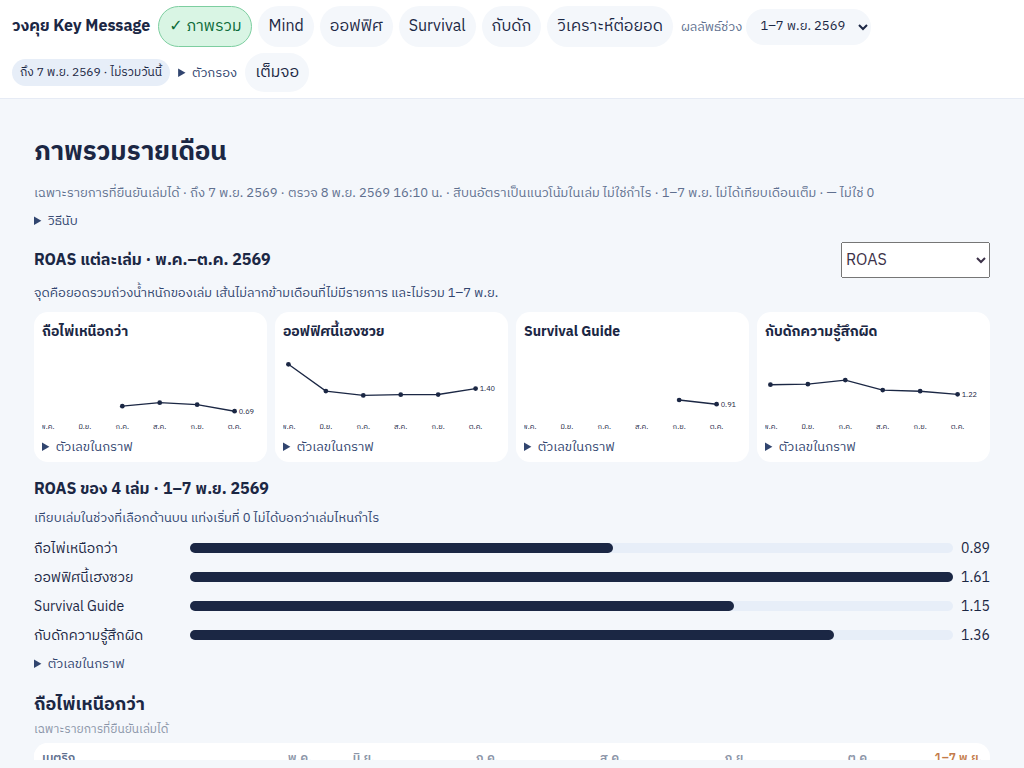
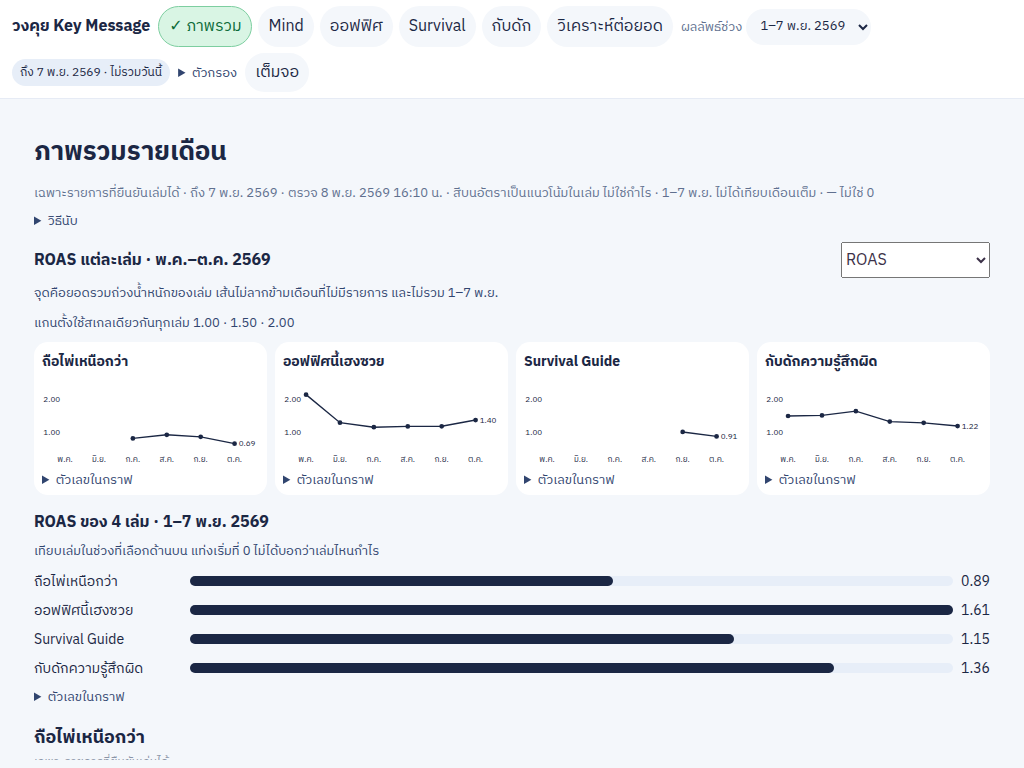
fix: label scatter and trend axes with numeric ticks
Spend uses baht ticks, ROAS uses numeric ticks, and the book baseline value sits on the dashed line.

diff --git a/public/chart-view.js b/public/chart-view.js
@@ -1,12 +1,14 @@
 import {
   CHART_METRICS,
   formatChartValue,
+  formatSpendTick,
   periodSeries,
   scatterLayout,
   scatterPoints,
+  trendScale,
   trendSegments,
   trendSeries,
-} from "/shared/chart-data.js?v=20261108t107";
+} from "/shared/chart-data.js?v=20261108t108";
 
 function el(tag, className, text) {
   const node = document.createElement(tag);
@@ -31,19 +33,13 @@ export function renderTrendChart(parent, opts) {
   section.append(el("p", "chart-note", "จุดคือยอดรวมถ่วงน้ำหนักของเล่ม เส้นไม่ลากข้ามเดือนที่ไม่มีรายการ และไม่รวม 1–7 พ.ย."));
   const grid = el("div", "trend-grid");
   const all = opts.books.map(([id]) => trendSeries(opts.deck.bookTotals, id, metric.key));
-  const values = all.flat().map((point) => point.value).filter((value) => value != null);
-  let min = metric.zero ? 0 : Math.min(...values);
-  let max = Math.max(...values);
-  if (!Number.isFinite(min)) min = 0;
-  if (!Number.isFinite(max)) max = 1;
-  if (min === max) max = min + 1;
-  else if (!metric.zero) min -= (max - min) * 0.12;
-  max += (max - min) * 0.16;
+  const scale = trendScale(all.flat().map((point) => point.value), metric.zero);
+  section.append(el("p", "chart-note", `แกนตั้งใช้สเกลเดียวกันทุกเล่ม ${scale.ticks.map((value) => formatChartValue(metric.key, value)).join(" · ")}`));
   for (const [id, name] of opts.books) {
     const series = trendSeries(opts.deck.bookTotals, id, metric.key);
     const panel = el("article", "chart-panel");
     panel.append(el("h4", "", name));
-    panel.append(trendSvg(series, min, max, metric.key));
+    panel.append(trendSvg(series, scale, metric.key));
     panel.append(dataTable(series.map((point) => [point.short, formatChartValue(metric.key, point.value)])));
     grid.append(panel);
   }
@@ -82,7 +78,7 @@ export function renderPeriodChart(parent, opts) {
 
 export function renderScatter(parent, ads, baseline, opts) {
   const points = scatterPoints(ads);
-  const layout = scatterLayout(points, baseline, 640, 180);
+  const layout = scatterLayout(points, baseline, 640, 200);
   const section = el("section", "chart-block scatter-block");
   section.append(el("h3", "", "Spend กับ ROAS ของแอดในช่วงนี้"));
   section.append(el("p", "chart-note", `เส้นประคือ ROAS ยอดเล่มทั้งช่วง ${baseline == null ? "—" : baseline.toFixed(2)} ไม่ได้คำนวณจากแถวที่กรอง และสูงกว่าเส้นไม่แปลว่ากำไร`));
@@ -92,12 +88,23 @@ export function renderScatter(parent, ads, baseline, opts) {
   svg.append(svgEl("line", { x1: layout.padL, y1: layout.padT, x2: layout.padL, y2: layout.height - layout.padB, class: "chart-axis" }));
   if (layout.baseY != null) {
     svg.append(svgEl("line", { x1: layout.padL, y1: layout.baseY, x2: layout.width - layout.padR, y2: layout.baseY, class: "chart-base" }));
+    const baseLabel = svgEl("text", { x: layout.width - layout.padR + 4, y: layout.baseY + 4, class: "chart-base-label" });
+    baseLabel.textContent = baseline.toFixed(2);
+    svg.append(baseLabel);
   }
-  const xLabel = svgEl("text", { x: layout.width / 2, y: layout.height - 8, class: "chart-axis-label", "text-anchor": "middle" });
+  for (const tick of layout.xTicks) {
+    const label = svgEl("text", { x: tick.x, y: layout.height - layout.padB + 14, class: "chart-tick x-tick", "text-anchor": "middle" });
+    label.textContent = tick.label;
+    svg.append(label);
+  }
+  for (const tick of layout.yTicks) {
+    const label = svgEl("text", { x: layout.padL - 6, y: tick.y + 4, class: "chart-tick y-tick", "text-anchor": "end" });
+    label.textContent = tick.label;
+    svg.append(label);
+  }
+  const xLabel = svgEl("text", { x: layout.width / 2, y: layout.height - 4, class: "chart-axis-label", "text-anchor": "middle" });
   xLabel.textContent = "Spend";
-  const yLabel = svgEl("text", { x: 14, y: 14, class: "chart-axis-label" });
-  yLabel.textContent = "ROAS";
-  svg.append(xLabel, yLabel);
+  svg.append(xLabel);
   for (const dot of layout.dots) {
     const button = el("button", "scatter-hit");
     button.type = "button";
@@ -140,18 +147,26 @@ function metricSelect(opts) {
   return select;
 }
 
-function trendSvg(series, min, max, key) {
+function trendSvg(series, scale, key) {
   const width = 320;
-  const height = 128;
-  const padL = 8;
+  const height = 132;
+  const padL = 34;
   const padR = 36;
   const padT = 16;
   const padB = 22;
+  const min = scale.min;
+  const max = scale.max;
   const innerW = width - padL - padR;
   const innerH = height - padT - padB;
   const xOf = (index) => padL + (series.length === 1 ? innerW / 2 : (index / (series.length - 1)) * innerW);
   const yOf = (value) => padT + (1 - (value - min) / (max - min)) * innerH;
   const svg = svgEl("svg", { viewBox: `0 0 ${width} ${height}`, class: "chart trend-chart" });
+  for (const tick of [scale.ticks[0], scale.ticks[scale.ticks.length - 1]]) {
+    if (tick == null || tick < min || tick > max) continue;
+    const label = svgEl("text", { x: 2, y: yOf(tick) + 3, class: "chart-tick trend-y" });
+    label.textContent = key === "roas" ? formatChartValue(key, tick) : formatSpendTick(tick);
+    svg.append(label);
+  }
   for (const segment of trendSegments(series)) {
     if (segment.length < 2) continue;
     const d = segment.map((point) => {

diff --git a/shared/chart-data.js b/shared/chart-data.js
@@ -80,7 +80,30 @@ export function scatterPoints(ads) {
   });
 }
 
-export function scatterLayout(points, baseline, width = 640, height = 220) {
+export function niceStep(span, target = 4) {
+  const rough = Math.abs(span) / target || 1;
+  const pow = 10 ** Math.floor(Math.log10(rough));
+  return [1, 2, 2.5, 5, 10].map((multiplier) => multiplier * pow).find((step) => span / step <= target + 1) || rough;
+}
+
+export function formatSpendTick(value) {
+  if (value === 0) return "฿0";
+  if (value % 1000 === 0) return `฿${value / 1000}k`;
+  if (value >= 1000) return `฿${(value / 1000).toFixed(1)}k`;
+  return `฿${Math.round(value)}`;
+}
+
+export function axisTicks(min, max, target = 4) {
+  const step = niceStep(max - min, target);
+  const start = Math.ceil((min - step * 1e-9) / step) * step;
+  const ticks = [];
+  for (let value = start; value <= max + step * 1e-6; value += step) {
+    ticks.push(Number(value.toFixed(6)));
+  }
+  return ticks;
+}
+
+export function scatterLayout(points, baseline, width = 640, height = 200) {
   const plot = points.filter((point) => point.plot);
   const spends = plot.map((point) => point.spend);
   const roases = plot.map((point) => point.roas).concat(baseline == null ? [] : [baseline]);
@@ -95,14 +118,16 @@ export function scatterLayout(points, baseline, width = 640, height = 220) {
     yMin -= pad;
     yMax += pad;
   }
-  const padL = 44;
-  const padR = 16;
-  const padT = 18;
-  const padB = 32;
+  const padL = 46;
+  const padR = 42;
+  const padT = 16;
+  const padB = 36;
   const innerW = Math.max(1, width - padL - padR);
   const innerH = Math.max(1, height - padT - padB);
   const xOf = (spend) => padL + (spend / xMax) * innerW;
   const yOf = (roas) => padT + (1 - (roas - yMin) / (yMax - yMin)) * innerH;
+  const xTicks = axisTicks(0, xMax, 4).filter((value) => value >= 0 && value <= xMax + 1e-6);
+  const yTicks = axisTicks(yMin, yMax, 4);
   return {
     width,
     height,
@@ -113,7 +138,21 @@ export function scatterLayout(points, baseline, width = 640, height = 220) {
     xMax,
     yMin,
     yMax,
+    baseline,
     baseY: baseline == null ? null : yOf(baseline),
+    xTicks: xTicks.map((value) => ({ value, label: formatSpendTick(value), x: xOf(value) })),
+    yTicks: yTicks.map((value) => ({ value, label: Number(value.toFixed(2)).toString(), y: yOf(value) })),
     dots: plot.map((point) => ({ ...point, x: xOf(point.spend), y: yOf(point.roas) })),
   };
+}
+
+export function trendScale(values, zero) {
+  const finite = values.filter((value) => value != null && Number.isFinite(value));
+  let min = finite.length ? Math.min(...finite) : 0;
+  let max = finite.length ? Math.max(...finite) : 1;
+  if (zero) min = Math.min(0, min);
+  if (min === max) max = min + 1;
+  else if (!zero) min -= (max - min) * 0.12;
+  max += (max - min) * 0.16;
+  return { min, max, ticks: axisTicks(min, max, 3) };
 }

diff --git a/public/web.js b/public/web.js
@@ -1,13 +1,13 @@
-import { analysisItemId } from "/shared/analysis.js?v=20261108t107";
-import { rates } from "/shared/metrics.js?v=20261108t107";
-import { comparisonRows } from "/shared/comparison.js?v=20261108t107";
-import { FROZEN_PERFORMANCE } from "/shared/cutoff.js?v=20261108t107";
-import { changePct, metricTone, sameLengthBase, TONE_LABEL } from "/shared/conditional.js?v=20261108t107";
-import { contentBadge, STATUS_CHECKED_LABEL } from "/shared/status-labels.js?v=20261108t107";
-import { TABLE_HEAD } from "/shared/labels.js?v=20261108t107";
-import { OVERVIEW_METRICS, OVERVIEW_MONTHS, metricCell } from "/shared/history.js?v=20261108t107";
-import { filterAds, sortAds } from "/shared/ad-query.js?v=20261108t107";
-import { renderPeriodChart, renderScatter, renderTrendChart } from "/chart-view.js?v=20261108t107";
+import { analysisItemId } from "/shared/analysis.js?v=20261108t108";
+import { rates } from "/shared/metrics.js?v=20261108t108";
+import { comparisonRows } from "/shared/comparison.js?v=20261108t108";
+import { FROZEN_PERFORMANCE } from "/shared/cutoff.js?v=20261108t108";
+import { changePct, metricTone, sameLengthBase, TONE_LABEL } from "/shared/conditional.js?v=20261108t108";
+import { contentBadge, STATUS_CHECKED_LABEL } from "/shared/status-labels.js?v=20261108t108";
+import { TABLE_HEAD } from "/shared/labels.js?v=20261108t108";
+import { OVERVIEW_METRICS, OVERVIEW_MONTHS, metricCell } from "/shared/history.js?v=20261108t108";
+import { filterAds, sortAds } from "/shared/ad-query.js?v=20261108t108";
+import { renderPeriodChart, renderScatter, renderTrendChart } from "/chart-view.js?v=20261108t108";
 
 const BOOKS = [
   ["Mind", "ถือไพ่เหนือกว่า"],

diff --git a/test/chart-data.test.js b/test/chart-data.test.js
@@ -8,6 +8,7 @@ import {
   bookMetric,
   formatChartValue,
   periodSeries,
+  formatSpendTick,
   scatterLayout,
   scatterPoints,
   trendSegments,
@@ -65,6 +66,26 @@ test("the selected-period chart uses that period only, and a scatter keeps the u
   const zero = scatterPoints([{ adId: "z", adName: "z", spend: 5, revenue: 0, impressions: 10, chats: 1, purchases: 0 }]);
   assert.equal(zero[0].roas, 0);
   assert.equal(zero[0].plot, true);
+  assert.ok(layout.xTicks.some((tick) => tick.label === "฿0"));
+  assert.ok(layout.xTicks.some((tick) => /฿\d+k/.test(tick.label)));
+  const spendTick = layout.xTicks.find((tick) => tick.value > 0);
+  const aligned = scatterLayout(scatterPoints([{
+    adId: "m",
+    adName: "m",
+    spend: spendTick.value,
+    revenue: spendTick.value,
+    impressions: 1000,
+    chats: 1,
+    purchases: 1,
+  }]), baseline);
+  const alignedTick = aligned.xTicks.find((tick) => tick.value === spendTick.value);
+  assert.equal(aligned.dots[0].x.toFixed(2), alignedTick.x.toFixed(2));
+  const zeroLayout = scatterLayout(zero, baseline);
+  const zeroTick = zeroLayout.yTicks.find((tick) => Math.abs(tick.value) < 1e-6);
+  assert.equal(zeroLayout.dots[0].y.toFixed(2), zeroTick.y.toFixed(2));
+  assert.ok(layout.dots.every((dot) => dot.x <= layout.width - layout.padR && dot.y >= layout.padT));
+  assert.equal(baseline.toFixed(2), "0.89");
+  assert.equal(formatSpendTick(2000), "฿2k");
   const missing = scatterPoints([{ adId: "n", adName: "n", spend: 0, revenue: 0, impressions: 0, chats: 0, purchases: 0 }]);
   assert.equal(missing[0].roas, null);
   assert.equal(missing[0].plot, false);

diff --git a/test/ui.test.js b/test/ui.test.js
@@ -129,6 +129,7 @@ test("November overview and Mind book stay on the selected period", async () => 
     assert.ok(ticks.includes("พ.ค."));
     assert.equal(ticks.includes("พ.ย."), false);
     assert.equal(await page.$$eval(".period-row", (nodes) => nodes.length), 4);
+    assert.ok((await page.$$eval(".trend-y", (nodes) => nodes.length)) >= 2);
     await page.screenshot({ path: "/opt/cursor/artifacts/overview-nov-1366.png" });
     await page.screenshot({ path: "/workspace/docs/progress/overview-nov-1366.png" });
     await page.setViewport({ width: 1024, height: 768 });
@@ -183,6 +184,12 @@ test("November overview and Mind book stay on the selected period", async () => 
     assert.equal(await page.$(".scan-row .scan-status"), null);
     assert.equal(await page.$(".scan-row img"), null);
     assert.match(await page.$eval(".scatter-block .chart-note", (node) => node.textContent), /ไม่แปลว่ากำไร/);
+    const xTicks = await page.$$eval(".scatter-chart .x-tick", (nodes) => nodes.map((node) => node.textContent));
+    const yTicks = await page.$$eval(".scatter-chart .y-tick", (nodes) => nodes.map((node) => node.textContent));
+    assert.ok(xTicks.includes("฿0"));
+    assert.ok(xTicks.some((label) => /฿\d+k/.test(label)));
+    assert.ok(yTicks.some((label) => label === "0" || label.startsWith("0.")));
+    assert.equal(await page.$eval(".chart-base-label", (node) => node.textContent), "0.89");
     const picksBefore = await page.$$eval(".pick-btn.on", (nodes) => nodes.length);
     await page.click(".scatter-hit");
     await page.waitForSelector(".scan-row.is-located");

diff --git a/public/app.js b/public/app.js
@@ -1,10 +1,10 @@
-import { analysisItemId } from "/shared/analysis.js?v=20261108t107";
-import { changePct, metricTone, TONE_LABEL } from "/shared/conditional.js?v=20261108t107";
-import { TABLE_HEAD } from "/shared/labels.js?v=20261108t107";
-import { rates, sumTotals, volumeFlag } from "/shared/metrics.js?v=20261108t107";
-import { MAX_NOTE, NOTE_IDS, SLIDE_IDS } from "/shared/slides.js?v=20261108t107";
-import { contentBadge } from "/shared/status-labels.js?v=20261108t107";
-import { renderWeb } from "/web.js?v=20261108t107";
+import { analysisItemId } from "/shared/analysis.js?v=20261108t108";
+import { changePct, metricTone, TONE_LABEL } from "/shared/conditional.js?v=20261108t108";
+import { TABLE_HEAD } from "/shared/labels.js?v=20261108t108";
+import { rates, sumTotals, volumeFlag } from "/shared/metrics.js?v=20261108t108";
+import { MAX_NOTE, NOTE_IDS, SLIDE_IDS } from "/shared/slides.js?v=20261108t108";
+import { contentBadge } from "/shared/status-labels.js?v=20261108t108";
+import { renderWeb } from "/web.js?v=20261108t108";
 
 const BOOKS = [
   { id: "Mind", name: "ถือไพ่เหนือกว่า", cls: "mind" },

diff --git a/public/styles.css b/public/styles.css
@@ -705,7 +705,8 @@ select:focus-visible,
 .chart { width: 100%; height: auto; display: block; }
 .trend-line { fill: none; stroke: #1b2744; stroke-width: 2; }
 .trend-dot, .scatter-dot { fill: #1b2744; }
-.chart-tick, .chart-axis-label, .chart-value { fill: #1b2744; font-size: 11px; font-family: "IBM Plex Sans Thai", sans-serif; }
+.chart-tick, .chart-axis-label, .chart-value, .chart-base-label { fill: #1b2744; font-size: 12px; font-family: "IBM Plex Sans Thai", sans-serif; }
+.chart-base-label { fill: #0b6b38; font-weight: 650; }
 .chart-axis { stroke: #c5cedd; stroke-width: 1; }
 .chart-base { stroke: #0b6b38; stroke-width: 1.5; stroke-dasharray: 4 3; }
 .period-row { display: grid; grid-template-columns: 148px 1fr auto; gap: 8px; align-items: center; margin: 0 0 6px; }

diff --git a/public/index.html b/public/index.html
@@ -4,7 +4,7 @@
   <meta charset="utf-8">
   <meta name="viewport" content="width=device-width, initial-scale=1">
   <title>วงคุย Key Message — 1–7 พ.ย. 2569</title>
-  <link rel="stylesheet" href="/styles.css?v=20261108t107">
+  <link rel="stylesheet" href="/styles.css?v=20261108t108">
 </head>
 <body class="mode-web">
   <div id="boot-error" hidden></div>
@@ -79,7 +79,7 @@
       <button type="submit" value="cancel">ปิดภาพ</button>
     </form>
   </dialog>
-  <script src="/boot.js?v=20261108t107"></script>
-  <script type="module" src="/app.js?v=20261108t107"></script>
+  <script src="/boot.js?v=20261108t108"></script>
+  <script type="module" src="/app.js?v=20261108t108"></script>
 </body>
 </html>

diff --git a/public/login.html b/public/login.html
@@ -4,7 +4,7 @@
   <meta charset="utf-8">
   <meta name="viewport" content="width=device-width, initial-scale=1">
   <title>เข้าสู่ระบบ — วงคุย Key Message</title>
-  <link rel="stylesheet" href="/styles.css?v=20261108t107">
+  <link rel="stylesheet" href="/styles.css?v=20261108t108">
 </head>
 <body class="gate">
   <main class="gate-card">
@@ -16,6 +16,6 @@
       <p id="login-error" class="login-error"></p>
     </form>
   </main>
-  <script type="module" src="/login.js?v=20261108t107"></script>
+  <script type="module" src="/login.js?v=20261108t108"></script>
 </body>
 </html>
